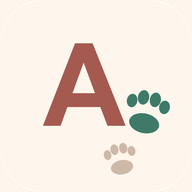
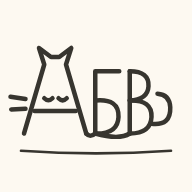
russian: アイコンを一新——つなげ字АБВのねこ
作者と重ねた検討の末、新アイコンに決定：АБВ を続け書きで
ひとつなぎにし、全体が一匹のねこになるデザイン。

- А＝頭（頂点が耳に割れ、三角の中に眠り目、左にひげ）
- Б・В＝背中とおしりのふたこぶ（ベースラインの筆記体的な
  つなぎが胴のライン）
- В の払いが巻きしっぽ（上向き案と実寸60px比較のうえ、
  文字のまとまりと小サイズの安定で巻きを採用）
- 黒インク×クリーム地＋地面の一本線（Notion風の線画）

apple-touch-icon（180）・icon-192・icon-512・maskable-512 の
4種を生成して差し替え。maskable は中央78%に収めて円形マスクでも
欠けない。sw.js を v142 に（キャッシュ更新でアイコン反映）。

Changed region(s): [[0.0312, 0.2188, 0.9062, 0.9375]]

diff --git a/russian/sw.js b/russian/sw.js
@@ -1,7 +1,7 @@
 // ねこと学ぶ キリル文字 — オフライン用のサービスワーカー
 // ★ 内容を更新したら、下の VERSION を必ず1つ上げてください（例: v1 → v2）
 //    番号を上げないと、利用者の端末に古い画面が残り続けます。
-const VERSION = 'v141';
+const VERSION = 'v142';
 const CACHE = 'neko-cyrillic-' + VERSION;
 
 // 最初に保存しておくファイル（これだけあればオフラインで起動できます）
